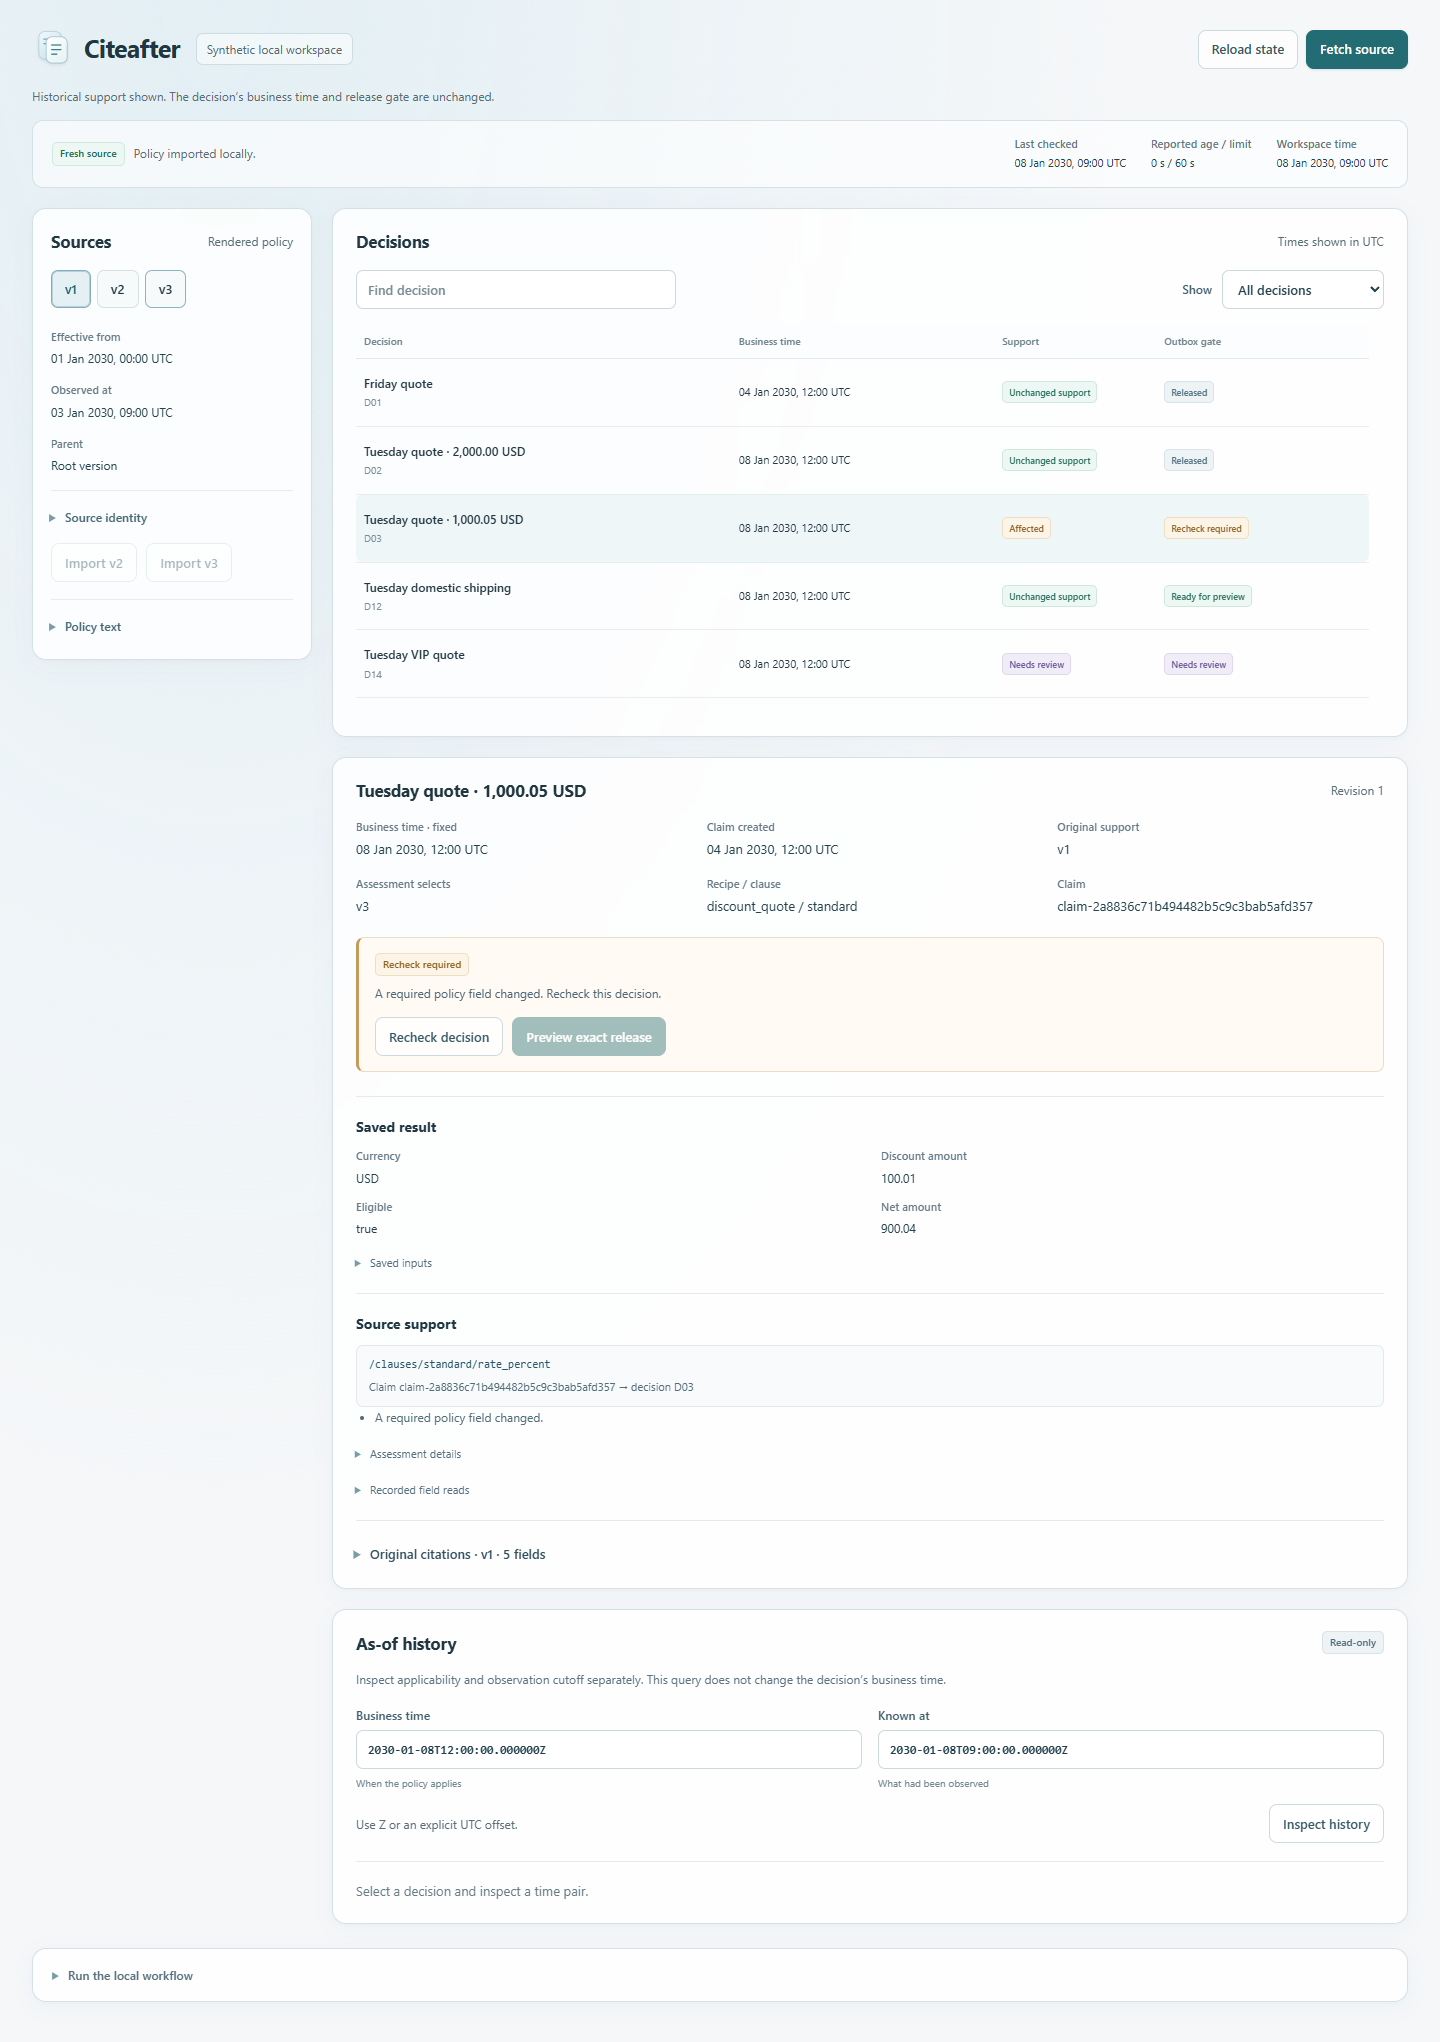
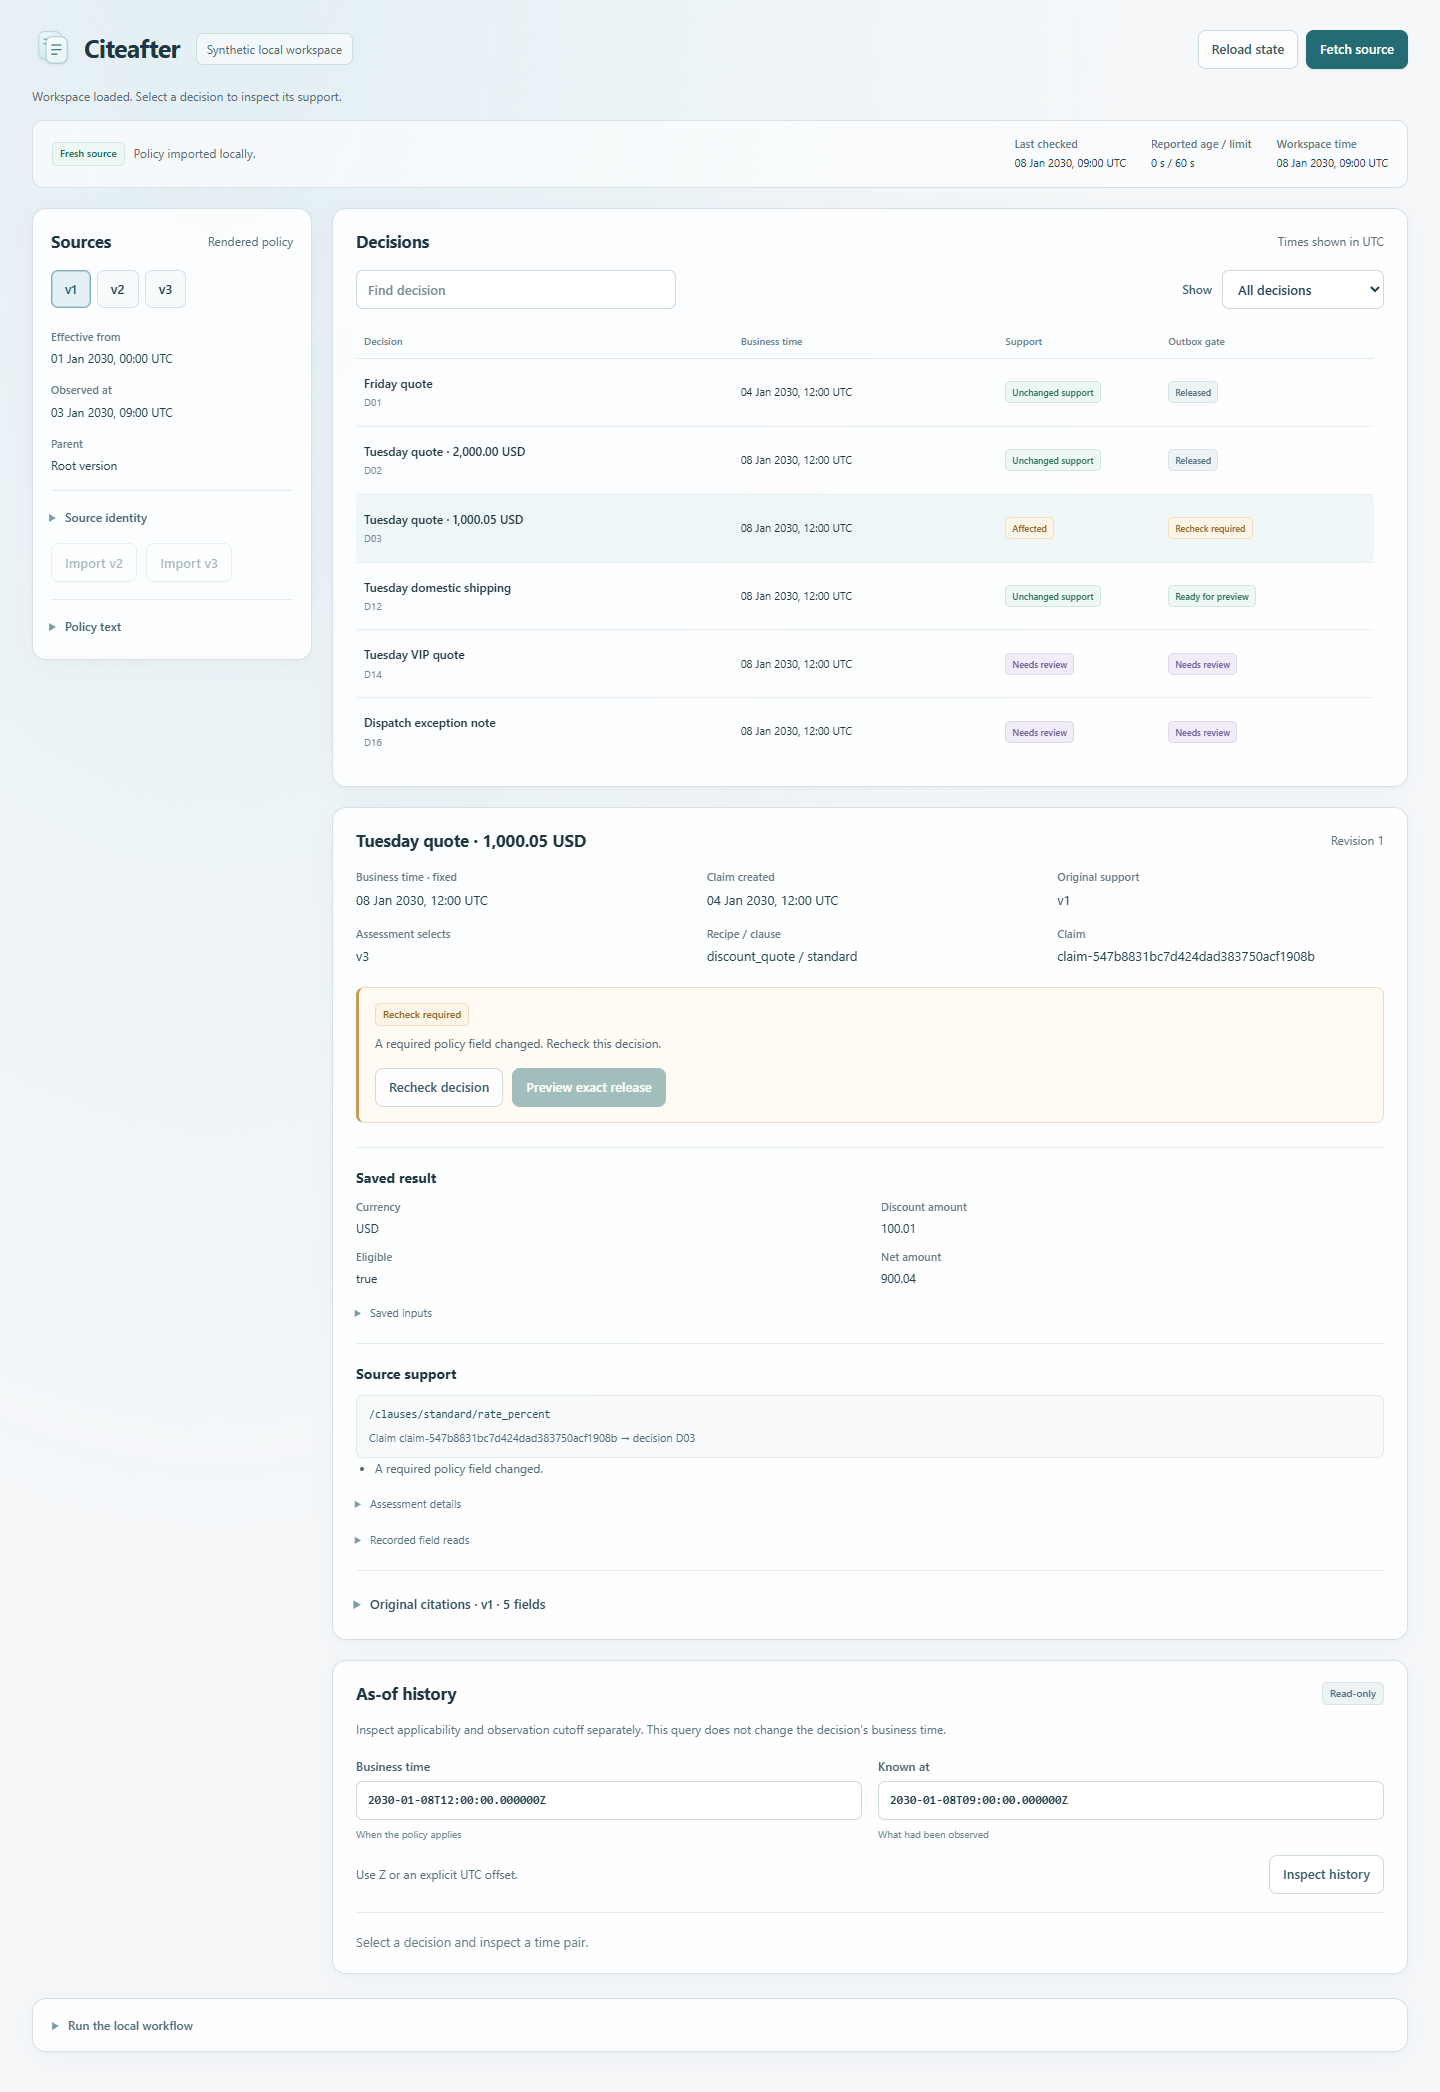
Show all demo decisions and clarify HTTP limits

diff --git a/citeafter/assets/app.css b/citeafter/assets/app.css
@@ -91,9 +91,12 @@ mark { color: #224f55; background: #ccebe3; padding: 1px 0; border-radius: 2px; 
 .search-label { flex: 1; max-width: 320px; }
 .filter-label { margin-left: auto; display: grid; grid-template-columns: auto 162px; align-items: center; gap: 10px; }
 .decision-table { width: 100%; border-collapse: collapse; table-layout: fixed; }
-.table-scroll { max-height: 390px; overflow-y: auto; scrollbar-gutter: stable; }
-.decision-table thead { position: sticky; top: 0; background: #fbfdfe; z-index: 1; }
-.decision-table th { text-align: left; color: #6d818b; font-size: 10px; font-weight: 600; padding: 9px 8px 10px; border-bottom: 1px solid #dfe8ec; }
+.table-scroll { max-height: 560px; overflow-y: auto; scrollbar-gutter: stable; scrollbar-width: thin; scrollbar-color: #9bb6c1 #f5f9fb; scroll-padding-top: 40px; }
+.table-scroll::-webkit-scrollbar { width: 8px; }
+.table-scroll::-webkit-scrollbar-track { background: #f5f9fb; }
+.table-scroll::-webkit-scrollbar-thumb { background: #9bb6c1; border: 2px solid #f5f9fb; border-radius: 8px; }
+.decision-table thead { position: sticky; top: 0; background: #fbfdfe; z-index: 2; }
+.decision-table th { text-align: left; color: #6d818b; font-size: 10px; font-weight: 600; padding: 9px 8px 10px; border-bottom: 1px solid #dfe8ec; background: #fbfdfe; }
 .decision-table th:nth-child(1) { width: 37%; }
 .decision-table th:nth-child(2) { width: 26%; }
 .decision-table th:nth-child(3) { width: 16%; }
@@ -207,7 +210,7 @@ dialog::backdrop { background: #16334355; backdrop-filter: blur(5px); -webkit-ba
   .search-label { max-width: none; }
   .filter-label { margin-left: 0; grid-template-columns: 42px minmax(0, 1fr); }
   .decision-table, .decision-table tbody { display: block; }
-  .table-scroll { max-height: 470px; scrollbar-gutter: auto; }
+  .table-scroll { max-height: 470px; scrollbar-gutter: stable; scroll-padding-top: 0; }
   .decision-table thead { position: absolute; width: 1px; height: 1px; clip: rect(0, 0, 0, 0); overflow: hidden; }
   .decision-table tbody { display: grid; gap: 10px; }
   .decision-table tr { display: grid; grid-template-columns: 1fr 1fr; border: 1px solid #dfe8ed; border-radius: 9px; padding: 11px 12px; background: #fbfdfe; }

diff --git a/docs/operations.md b/docs/operations.md
@@ -12,11 +12,11 @@ The local UI opens the printed numeric loopback address; `localhost`, forwarded 
 
 The operator pins one endpoint at ledger initialization. HTTPS uses normal certificate verification. Plain HTTP is accepted only for numeric IPv4 loopback or `::1`; no DNS alias bypass. URLs cannot contain credentials, query or fragment. No redirects, retries, proxy configuration, ambient credentials or document-selected endpoints are used.
 
-Supported200 responses have JSON MIME (`application/json` or `application/*+json`), UTF-8, identity coding and exactly one decimal `Content-Length`. The declared body must arrive completely within the byte limit and wall deadline. **All Transfer-Encoding, including chunked, and close-delimited responses are refused.** Configure the publisher to return Content-Length. This deliberately narrow client is not a general web scraper.
+Supported 200 responses have JSON MIME (`application/json` or `application/*+json`), UTF-8, identity coding and exactly one decimal `Content-Length`. The declared body must arrive completely within the byte limit and wall deadline. **All Transfer-Encoding, including chunked, and close-delimited responses are refused.** Configure the publisher to return Content-Length. This deliberately narrow client is not a general web scraper.
 
-Maximum body:256 KiB. Default fetch deadline:2 seconds, including the isolated worker's DNS, TLS, headers and body. The parent terminates and reaps only its own worker on expiry; process scheduling and cleanup can add overhead. No hard real-time bound is claimed. A304 needs a prior conditional cache; it preserves the original source bytes and first observation. A concurrent changed cache requires another refresh.
+Maximum body: 256 KiB. Default fetch deadline: 2 seconds, including the isolated worker's DNS, TLS, headers and body. The parent terminates and reaps only its own worker on expiry; process scheduling and cleanup can add overhead. No hard real-time bound is claimed. A 304 needs a prior conditional cache; it preserves the original source bytes and first observation. A concurrent changed cache requires another refresh.
 
-The body must match the typed policy schema. Unknown fields, duplicate keys, nonfinite numbers, invalid Unicode and malformed dates are refused. Oversized imports retain a bounded rejected prefix, explicitly labelled as such, and block new release until a successful check. Checking an old version does not establish freshness for a newer selected descendant; recheck the current representation. Policy observation time cannot be supplied in the body. Discount rates and money are bounded nonnegative decimal strings with at most two places; rates cannot exceed100. Use explicit-offset timestamps.
+The body must match the typed policy schema. Unknown fields, duplicate keys, nonfinite numbers, invalid Unicode and malformed dates are refused. Oversized imports retain a bounded rejected prefix, explicitly labelled as such, and block new release until a successful check. Checking an old version does not establish freshness for a newer selected descendant; recheck the current representation. Policy observation time cannot be supplied in the body. Discount rates and money are bounded nonnegative decimal strings with at most two places; rates cannot exceed 100. Use explicit-offset timestamps.
 
 ## Recovery
 

diff --git a/docs/spec.md b/docs/spec.md
@@ -33,7 +33,7 @@ A preview binds the exact action revision, assessment, source/freshness generati
 
 ## Real transport and recovery
 
-The HTTP source adapter uses an operator-selected pinned endpoint, bounded JSON/UTF-8 input, explicit timeout and conditional ETag requests. It follows no redirects or implicit retries. A304 validates a prior cached representation; it does not supply a business-effective date. Availability/freshness and semantic impact remain separate. Timeout, malformed response or removal cannot silently preserve release permission.
+The HTTP source adapter uses an operator-selected pinned endpoint, bounded JSON/UTF-8 input, explicit timeout and conditional ETag requests. It follows no redirects or implicit retries. A 304 validates a prior cached representation; it does not supply a business-effective date. Availability/freshness and semantic impact remain separate. Timeout, malformed response or removal cannot silently preserve release permission.
 
 SQLite retains original source/claim/action revisions, assessments and outbox bindings across restart. Integrity or citation corruption fails closed and preserves original data. Tests must exercise actual separate-process updates, preview races, idempotency and failure recovery.
 
